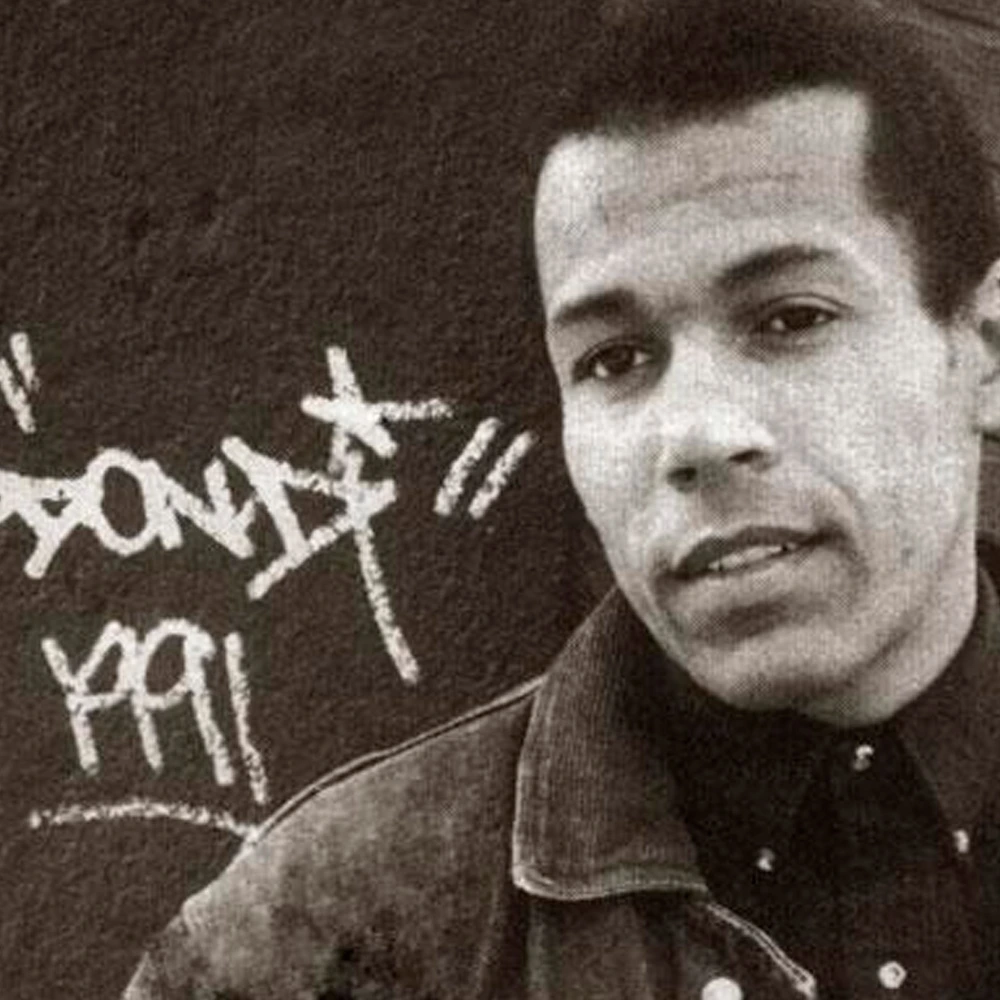
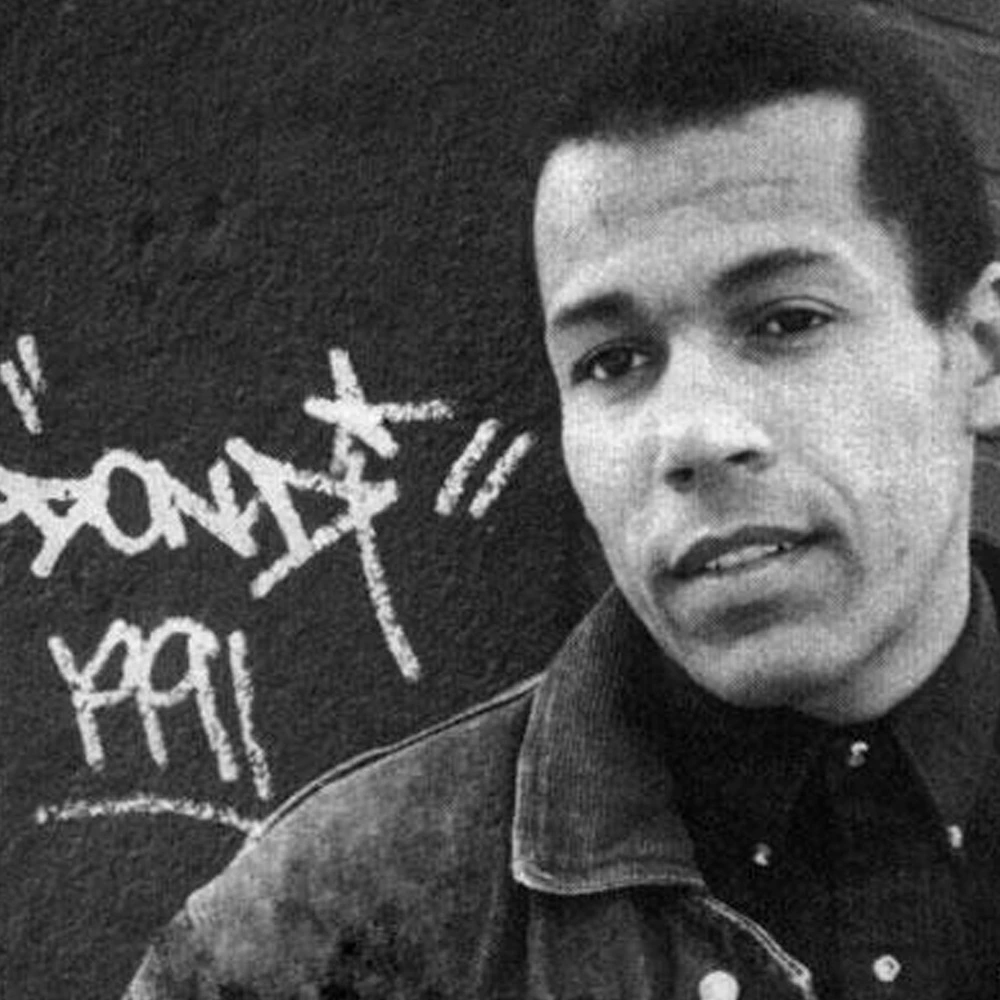
legends-grid js

diff --git a/authors.html b/authors.html
@@ -108,7 +108,7 @@
                  <div class="legend-card"
                     data-name="Lady Pink"
                     data-info="One of the first women to rise in the male-dominated graffiti scene, Lady Pink became a symbol of empowerment and creativity."
-                    data-image="media/images/l1.webp">
+                    data-image="media/images/l3.webp">
                     <img src="media/images/l3.webp" alt="Lady Pink">
                  </div>
 
@@ -181,5 +181,67 @@
         </div>
     </footer>
 
+    <!-- JS -->
+    <script>
+        document.addEventListener('DOMContentLoaded', () => {
+            
+        const legendCards = document.querySelectorAll('.legend-card');
+
+        const modal = document.createElement('div');
+        modal.id = 'legendModal';
+        modal.innerHTML = `
+            <div class="modal-content" role="dialog" aria-modal="true" aria-labelledby="modalTitle">
+            <span class="close-modal" aria-label="Close modal">&times;</span>
+            <img src="" alt="" />
+            <h3 id="modalTitle"></h3>
+            <p></p>
+            </div>
+        `;
+        document.body.appendChild(modal);
+
+        const modalImg = modal.querySelector('img');
+        const modalName = modal.querySelector('h3');
+        const modalInfo = modal.querySelector('p');
+        const closeModalBtn = modal.querySelector('.close-modal');
+
+        if (!legendCards || legendCards.length === 0) return;
+
+        legendCards.forEach(card => {
+            card.addEventListener('click', () => {
+            const name = card.getAttribute('data-name') || '';
+            const info = card.getAttribute('data-info') || '';
+            const image = card.getAttribute('data-image') || card.querySelector('img')?.src || '';
+
+            modalImg.src = image;
+            modalImg.alt = name;
+            modalName.textContent = name;
+            modalInfo.textContent = info;
+
+            modal.classList.add('show');
+
+            document.body.style.overflow = 'hidden';
+            });
+        });
+
+        closeModalBtn.addEventListener('click', () => {
+            modal.classList.remove('show');
+            document.body.style.overflow = '';
+        });
+
+        modal.addEventListener('click', (e) => {
+            if (e.target === modal) {
+            modal.classList.remove('show');
+            document.body.style.overflow = '';
+            }
+        });
+
+        window.addEventListener('keydown', (e) => {
+            if (e.key === 'Escape') {
+            modal.classList.remove('show');
+            document.body.style.overflow = '';
+            }
+        });
+        });
+    </script>
 </body>
 </html>

diff --git a/js/script.js b/js/script.js
@@ -1,3 +1,56 @@
-const legendsCards = document.querySelectorAll('.legend-card');
+// Selecciona todos los personajes
+const legendCards = document.querySelectorAll('.legend-card');
 const modal = document.createElement('div');
 
+// Crea estructura modal
+modal.id = 'legendModal';
+modal.innerHTML = `
+  <div class="modal-content">
+    <span class="close-modal">&times;</span>
+    <img src="" alt="">
+    <h3></h3>
+    <p></p>
+  </div>
+`;
+document.body.appendChild(modal);
+
+// Referencias internas
+const modalImg = modal.querySelector('img');
+const modalName = modal.querySelector('h3');
+const modalInfo = modal.querySelector('p');
+const closeModalBtn = modal.querySelector('.close-modal');
+
+// Abrir modal al hacer click
+legendCards.forEach(card => {
+  card.addEventListener('click', () => {
+    const name = card.getAttribute('data-name');
+    const info = card.getAttribute('data-info');
+    const image = card.getAttribute('data-image');
+
+    modalImg.src = image;
+    modalImg.alt = name;
+    modalName.textContent = name;
+    modalInfo.textContent = info;
+
+    modal.classList.add('show');
+  });
+});
+
+// Cerrar modal aspa
+closeModalBtn.addEventListener('click', () => {
+  modal.classList.remove('show');
+});
+
+// Cerrar modal pulsar fuera
+window.addEventListener('click', e => {
+  if (e.target === modal) {
+    modal.classList.remove('show');
+  }
+});
+
+// Cerrar con esc
+window.addEventListener('keydown', e => {
+  if (e.key === 'Escape') {
+    modal.classList.remove('show');
+  }
+});

diff --git a/css/style.css b/css/style.css
@@ -180,6 +180,7 @@ h1, h2 {
 
 .footer2 button {
   background-color: #ff0000;
+  border-radius: 3px;
   color: rgb(255, 255, 255);
   border: none;
   padding: 4px 15px;
@@ -501,10 +502,6 @@ h1, h2 {
 }
 
 @media (max-width:800px) {
-  .authors-section h2 {
-    font-size: 2rem;
-  }
-
   .closing-phrase {
     font-size: 1.1rem;
   }
@@ -526,7 +523,7 @@ h1, h2 {
 /* HIP HOP LEGENDS */
 .hiphop-legends {
   text-align: center;
-  padding: 120px 60px;
+  padding: 60px;
 }
 
 .hiphop-legends h2 {
@@ -540,6 +537,7 @@ h1, h2 {
 }
 
 .legends-grid {
+  display: grid;
   grid-template-columns: repeat(4, 1fr);
   gap: 40px;
   justify-content: center;
@@ -593,11 +591,10 @@ h1, h2 {
 
 .legend-card:hover img {
   transform: scale(1.1);
-  filter: grayscale(0%);
 }
 
 .legend-card:hover::after {
-  opacity: 0.8;
+  color: red;
 }
 
 #legendModal {
@@ -609,6 +606,7 @@ h1, h2 {
   justify-content: center;
   align-items: center;
   transition: opacity 0.3s ease;
+  padding: 20px;
 }
 
 #legendModal.show {
@@ -662,4 +660,22 @@ h1, h2 {
 @keyframes popIn {
   from { transform: scale(0.8); opacity: 0;}
   to { transform: scale(1); opacity: 1;}
+}
+
+@media (max-width: 900px) {
+  .modal-content {
+    max-width: 450px;
+    padding: 30px;
+  }
+}
+
+@media (max-width: 600px) {
+  .modal-content {
+    max-width: 350px;
+    padding: 25px;
+  }
+
+  .modal-content img {
+    margin-bottom: 15px;
+  }
 }
